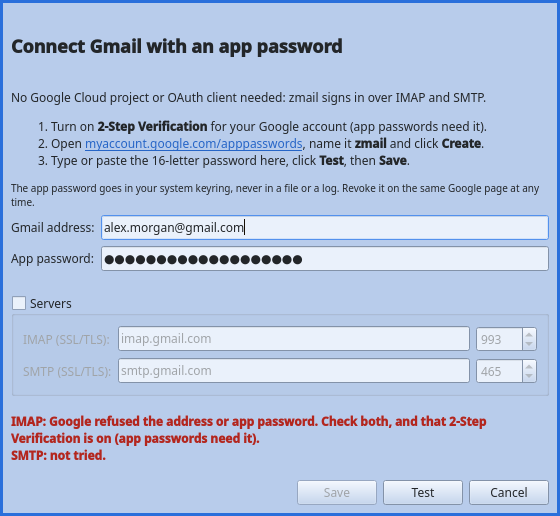
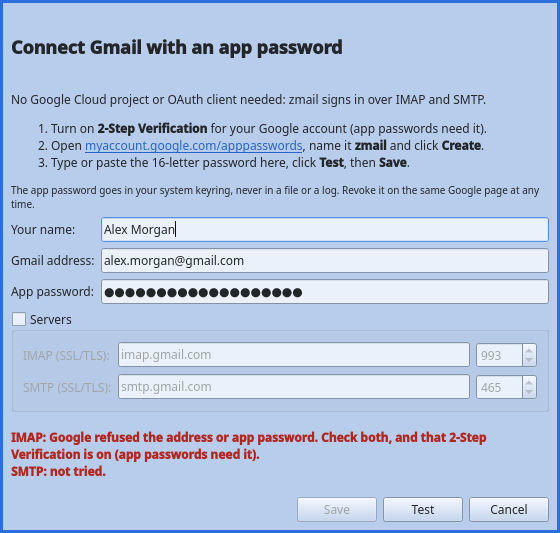
README: app-password setup, limitations, no vacation responder; screenshots (throttle, snooze, From name)

diff --git a/tests/dialogshot.cpp b/tests/dialogshot.cpp
@@ -7,6 +7,8 @@
 //                                    imap-search.png (X-GM-RAW), imap-attachment.png
 //   zmail_dialogshot <outdir> imap-send   SMTP + drafts: imap-compose.png, imap-drafts.png,
 //                                    imap-send-queued.png (with a fake SMTP server)
+//   zmail_dialogshot <outdir> imap-extras   imap-throttled.png (Gmail's connection limit, backing off),
+//                                    imap-snoozed.png, imap-from-name.png
 #include "core/MailSession.h"
 #include "core/TokenStore.h"
 #include "core/ConnectionTester.h"
@@ -17,6 +19,9 @@
 #include "core/ReplyBuilder.h"
 #include "core/Sender.h"
 #include "ui/ComposeWindow.h"
+#include "core/ImapSyncEngine.h"
+#include "core/ServerLimits.h"
+#include <QDateTime>
 #include <QTextEdit>
 #include <QTreeWidget>
 #include <QTreeWidgetItemIterator>
@@ -54,6 +59,7 @@ void shoot(QWidget *w, const QString &path)
 }
 void fill(ui::AppPasswordDialog &d, const QString &pw)
 {
+    d.findChild<QLineEdit *>(QStringLiteral("displayNameEdit"))->setText(QStringLiteral("Alex Morgan"));
     d.findChild<QLineEdit *>(QStringLiteral("emailEdit"))->setText(QStringLiteral("alex.morgan@gmail.com"));
     d.findChild<QLineEdit *>(QStringLiteral("appPasswordEdit"))->setText(pw);
 }
@@ -74,7 +80,9 @@ int main(int argc, char *argv[])
     MemoryTokenStore store;
 
     const QString mode = argc > 2 ? QString::fromLocal8Bit(argv[2]) : QString();
-    if (mode == QLatin1String("imap") || mode == QLatin1String("imap-actions") || mode == QLatin1String("imap-send")) {
+    if (mode == QLatin1String("imap") || mode == QLatin1String("imap-actions") || mode == QLatin1String("imap-send")
+        || mode == QLatin1String("imap-extras")) {
+        const bool extras = mode == QLatin1String("imap-extras");
         const bool actions = mode == QLatin1String("imap-actions");
         const bool sending = mode == QLatin1String("imap-send");
         test::FakeImapServer imap;
@@ -87,6 +95,10 @@ int main(int argc, char *argv[])
         test::FakeSmtpServer smtp(&imap);
         a.smtpHost = QStringLiteral("127.0.0.1");
         a.smtpPort = smtp.port();
+        if (extras) {
+            a.displayName = QStringLiteral("Alex Morgan");
+            imap.loginRefusals = {"NO [ALERT] Too many simultaneous connections. (Failure)"};
+        }
         {
             QSettings s;
             s.clear();
@@ -105,6 +117,14 @@ int main(int argc, char *argv[])
         w.resize(1180, 740);
         w.show();
         session.restoreSaved();
+        if (extras) {
+            auto *eng = qobject_cast<ImapSyncEngine *>(session.sync());
+            eng->setBackoffScaleForTests(0.05); // 60 s -> 3 s, time for the shot
+            QTest::qWaitFor([&] { return eng->lastLimit() == ServerLimits::Kind::TooManyConnections; }, 5000);
+            QTest::qWait(400);
+            w.grab().save(out + QStringLiteral("/imap-throttled.png"));
+            std::printf("%s\n", qPrintable(out + QStringLiteral("/imap-throttled.png")));
+        }
         QSignalSpy idle(session.sync(), &SyncEngine::idle);
         if (!idle.wait(10000)) {
             return 2;
@@ -131,6 +151,37 @@ int main(int argc, char *argv[])
             }
             QTest::qWait(1800);
         };
+        if (extras) {
+            auto *sync = session.sync();
+            const auto inbox = session.cache()->messages(QStringLiteral("INBOX"));
+            const qint64 tomorrow = QDateTime::currentDateTime().addDays(1).date().startOfDay().addSecs(8 * 3600).toMSecsSinceEpoch();
+            for (int i = 1; i < 3 && i < inbox.size(); ++i) {
+                sync->snooze(inbox.at(i).id, tomorrow);
+            }
+            QTest::qWaitFor([&] { return !sync->isBusy(); }, 5000);
+            openBox(QStringLiteral("Snoozed"));
+            if (list && list->model()->rowCount() > 0) {
+                list->setCurrentIndex(list->model()->index(0, 0));
+            }
+            w.statusBar()->showMessage(QStringLiteral("Snoozed 2 until tomorrow 8:00 AM (out of the Inbox on imap.gmail.com)"));
+            snap("imap-snoozed.png");
+            ComposeWindow c;
+            c.setSession(&session);
+            ComposeDraft d;
+            d.to = QStringLiteral("Priya Raman <priya@northwind.example>");
+            d.subject = QStringLiteral("From line with your name");
+            c.setDraft(d);
+            c.findChild<QTextEdit *>(QStringLiteral("composeBody"))
+                ->setPlainText(QStringLiteral("From now shows \u201cAlex Morgan <alex.morgan@gmail.com>\u201d: set in the account "
+                                              "dialog or Settings \u2192 Your Name\u2026"));
+            c.resize(820, 420);
+            c.show();
+            QTest::qWait(700);
+            c.grab().save(out + QStringLiteral("/imap-from-name.png"));
+            std::printf("%s\n", qPrintable(out + QStringLiteral("/imap-from-name.png")));
+            QSettings().clear();
+            return 0;
+        }
         if (sending) {
             {
                 ComposeWindow c;

diff --git a/tests/tst_imapextras.cpp b/tests/tst_imapextras.cpp
@@ -118,13 +118,14 @@ private slots:
         imap.seedDemo(4);
         imap.loginRefusals = {"NO [ALERT] Too many simultaneous connections. (Failure)"};
         Engine e(imap, imap.password);
+        e.sync->setBackoffScaleForTests(0.02); // 60 s -> ~1.2 s: long enough to look at, even on a busy CI box
         QSignalSpy errors(e.sync.get(), &SyncEngine::syncError);
         QSignalSpy idle(e.sync.get(), &SyncEngine::idle);
         e.sync->start();
         QTRY_COMPARE(e.sync->lastLimit(), Kind::TooManyConnections);
         QVERIFY(!errors.isEmpty());
         QVERIFY(errors.last().first().toString().contains(QLatin1String("too many connections")));
-        QVERIFY(e.sync->retryInMs() > 0 && e.sync->retryInMs() <= 72); // 60 s, scaled
+        QVERIFY(e.sync->retryInMs() > 0 && e.sync->retryInMs() <= 1440); // 60 s +-20%, scaled
         QVERIFY(idle.wait(5000));                                       // then it gets in
         QCOMPARE(imap.refusedLogins, 1);
         QCOMPARE(imap.logins, 1);

diff --git a/README.md b/README.md
@@ -139,6 +139,67 @@ directory 0700). **File → Sign Out** forgets the token and revokes it at Googl
 If Google ever rejects the saved sign-in (revoked, password changed), zmail
 shows the sign-in dialog again.
 
+### Or: connect with an app password (IMAP + SMTP)
+
+No Google Cloud project needed. zmail talks to Gmail over IMAP
+(`imap.gmail.com:993`) and SMTP (`smtp.gmail.com:465`), signing in with a
+16-letter **app password**. You don't hit the 7-day token expiry that OAuth
+clients get while their app is in "Testing".
+
+1. Turn on **2-Step Verification** for your Google account. App passwords
+   need it.
+2. Make an app password at
+   [myaccount.google.com/apppasswords](https://myaccount.google.com/apppasswords)
+   (Google's help: [Sign in with app passwords](https://support.google.com/accounts/answer/185833)).
+   Name it `zmail` and copy the 16 letters.
+3. In zmail's **Connect your Gmail** dialog, click **Use a Gmail app
+   password instead…**. Enter your name (optional; it's shown in From), your Gmail
+   address and the app password, then click **Test** and **Save**.
+
+The app password goes only to your system keyring (QtKeychain). There's no
+plaintext fallback, and zmail never logs it. **File → Sign Out** removes it
+from the keyring. To stop zmail's access altogether, revoke the app password
+on the same Google page. If Google refuses the password (revoked, or your
+Google password changed), zmail says so and **stops retrying**, because
+repeated failed logins can get the account locked. Enter a new one in the
+account dialog. **Settings → Your Name…** changes the From name later.
+
+| Account dialog | App-password mailbox (fake server) | Gmail-syntax search over IMAP |
+|---|---|---|
+| ![](docs/screenshots/apppassword-ok.png) | ![](docs/screenshots/imap-mainwindow.png) | ![](docs/screenshots/imap-search.png) |
+
+What works the same as with OAuth: reading, IDLE push for new mail, folders
+and labels (create, rename, delete, move), archive, Trash with Undo, Junk,
+flags/stars, read/unread, bulk actions, Gmail search syntax (`from:`,
+`has:attachment`, … sent to Gmail as `X-GM-RAW`), attachments, sending
+(including **Send Later** and **Send Queued**), drafts kept in
+`[Gmail]/Drafts`, and snooze.
+
+**Limitations of app-password accounts:**
+
+- **No vacation responder.** Gmail's auto-reply is only reachable through the
+  Gmail API. Set it in Gmail on the web (Settings → General → Vacation
+  responder). **Settings → Vacation Responder** in zmail says so.
+- **No Google Contacts sync** (People API). The local address book still
+  learns addresses from your mail.
+- **No folder colours.** IMAP folders have none. Colours set in Gmail on the
+  web aren't shown.
+- **Snooze is local to zmail**, as it is with OAuth: the message leaves the
+  Inbox and comes back at the chosen time *while zmail is running*. The
+  Gmail web and phone apps don't show it as snoozed.
+- **Send-as aliases aren't used.** Mail goes out from the account's own
+  address, with the name you entered.
+- **Gmail's limits apply.**
+  - IMAP allows 15 connections per account, plus daily bandwidth caps.
+  - SMTP has a daily sending limit.
+  - On *too many connections*, *bandwidth / throttled*, *temporarily
+    unavailable* or *try again later*, zmail backs off with jitter and tries
+    again: about 1 → 15 minutes for connections, 10 → 60 minutes for
+    bandwidth, and 2 s → 5 minutes for temporary errors.
+  - A message that hits the daily sending limit stays in **Queue**.
+- Requires 2-Step Verification. Some Workspace admins turn app passwords
+  off; in that case use the OAuth setup above.
+
 `zmail --offline` shows the built-in sample mailbox without connecting.
 
 | First run | Sign in | Synced mailbox (mock data) |
